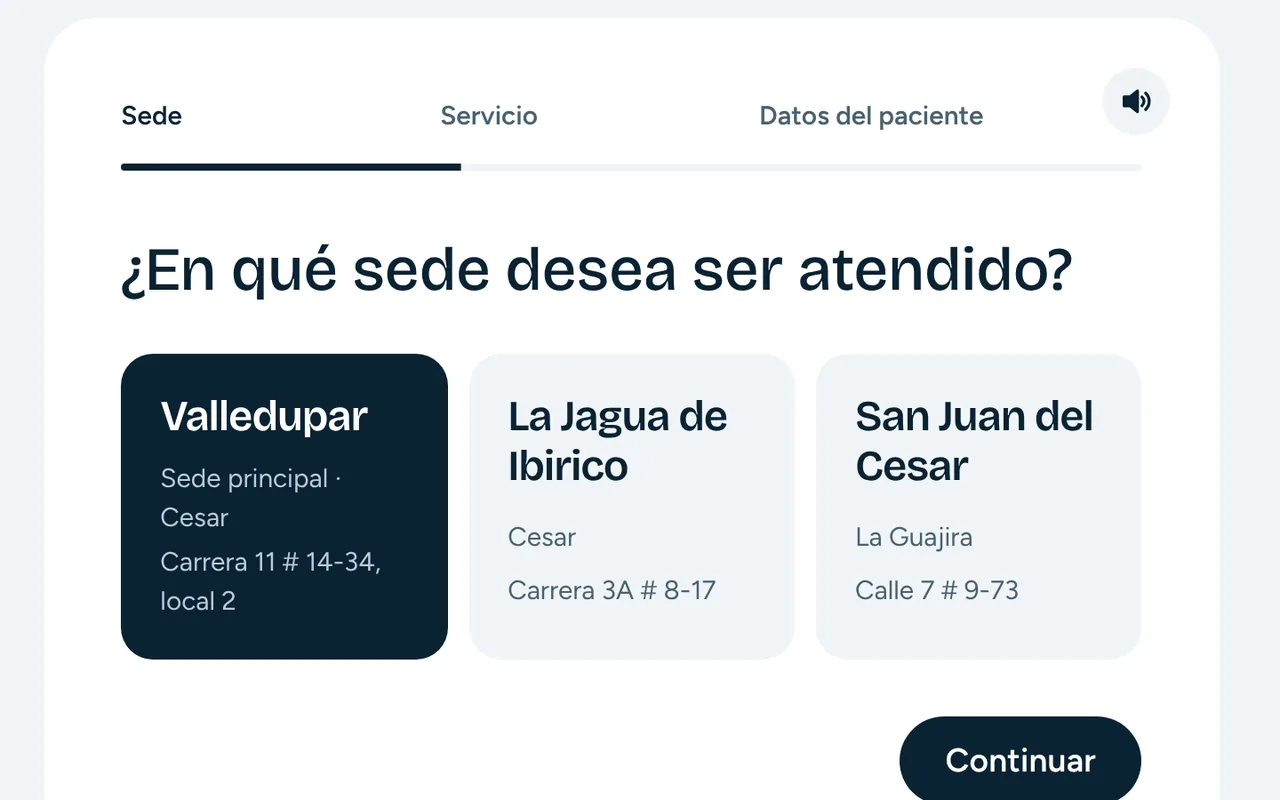
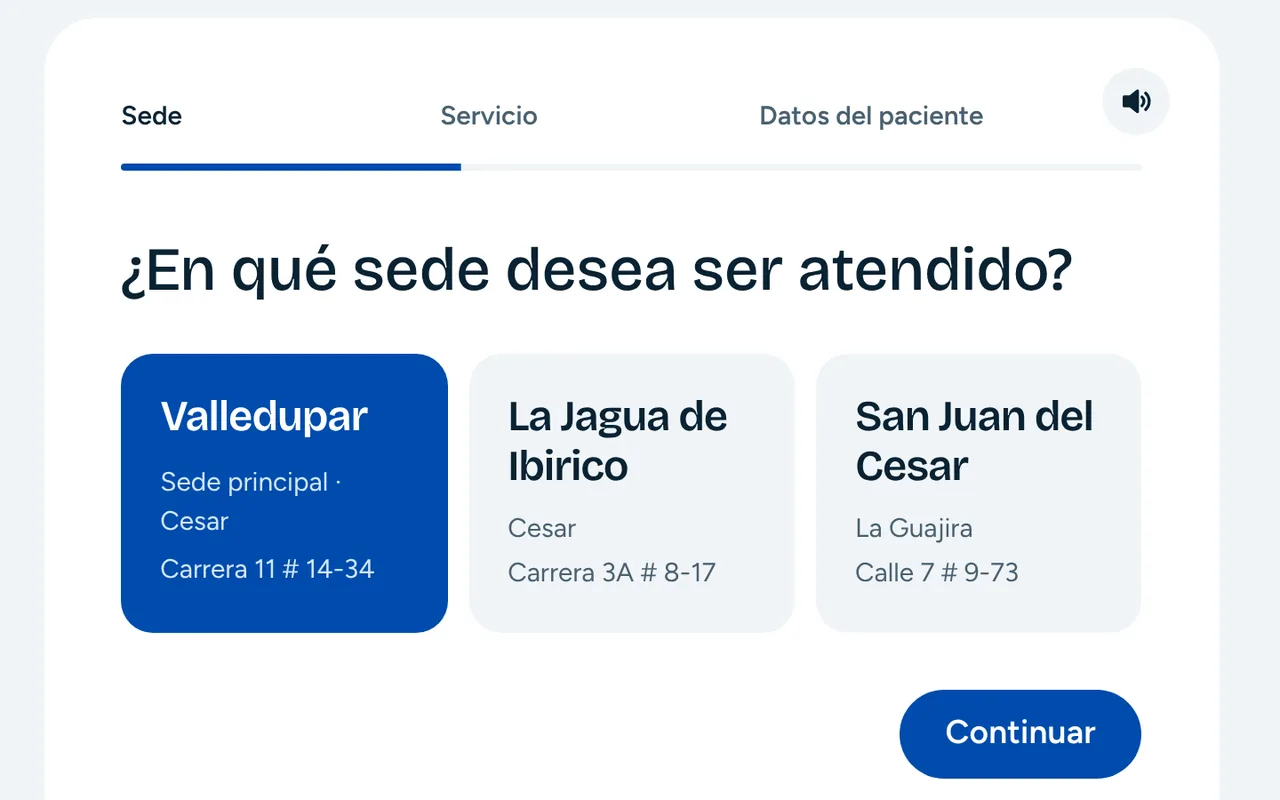
Dirección de Valledupar sin «local 2»: Carrera 11 # 14-34 (portada, formulario, noticia, pie, política y términos)
También se rehacen las capturas de las noticias con la dirección y los colores nuevos. Caché a 20261120a.

Claude-Session: https://claude.ai/code/session_01KgBCaLP9RysCNRVRUvwMra

diff --git a/index.html b/index.html
@@ -24,7 +24,7 @@
   <link rel="preconnect" href="https://fonts.googleapis.com">
   <link rel="preconnect" href="https://fonts.gstatic.com" crossorigin>
   <link href="https://fonts.googleapis.com/css2?family=Bricolage+Grotesque:opsz,wght@12..96,500..700&family=Figtree:wght@400;500;600;700&display=swap" rel="stylesheet">
-  <link rel="stylesheet" href="styles.css?v=20261118d">
+  <link rel="stylesheet" href="styles.css?v=20261120a">
   <script>document.documentElement.classList.add('js')</script>
 </head>
 <body>
@@ -125,7 +125,7 @@
           <div class="choice-grid">
             <label class="choice">
               <input type="radio" name="sede" value="Valledupar" required>
-              <span class="choice__body"><strong>Valledupar</strong><span>Sede principal · Cesar</span><span>Carrera 11 # 14-34, local 2</span></span>
+              <span class="choice__body"><strong>Valledupar</strong><span>Sede principal · Cesar</span><span>Carrera 11 # 14-34</span></span>
             </label>
             <label class="choice">
               <input type="radio" name="sede" value="La Jagua de Ibirico">
@@ -312,7 +312,7 @@
           <p>Para que la muestra salga bien, en los días previos se recomienda no tener relaciones sexuales, no usar óvulos ni cremas vaginales y no hacerse duchas vaginales. Lo ideal es no estar en el período menstrual.</p>
           <h4>¿Dónde?</h4>
           <ul>
-            <li><strong>Valledupar:</strong> Carrera 11 # 14-34, local 2.</li>
+            <li><strong>Valledupar:</strong> Carrera 11 # 14-34.</li>
             <li><strong>San Juan del Cesar:</strong> Calle 7 # 9-73, para afiliadas a Sanitas de <strong>San Juan del Cesar, El Molino, Urumita y Villanueva</strong>.</li>
           </ul>
           <h4>Agende su cita</h4>
@@ -448,7 +448,7 @@
           <li>
             <button type="button" class="site" data-site="0" aria-pressed="true">
               <span class="site__photo slot" data-label="Sede Valledupar" data-file="fotos/sede-valledupar.jpg"><img src="fotos/sede-valledupar.jpg" alt="" width="400" height="300" loading="lazy" onerror="this.parentNode.classList.add('is-empty')"></span>
-              <span class="site__text"><strong>Valledupar</strong><span>Sede principal · Cesar</span><span>Carrera 11 # 14-34, local 2</span><span>Lun. a vie. 6:30&nbsp;a.&nbsp;m. a 12:30&nbsp;p.&nbsp;m. y 1:30&nbsp;p.&nbsp;m. a 6:30&nbsp;p.&nbsp;m.</span></span>
+              <span class="site__text"><strong>Valledupar</strong><span>Sede principal · Cesar</span><span>Carrera 11 # 14-34</span><span>Lun. a vie. 6:30&nbsp;a.&nbsp;m. a 12:30&nbsp;p.&nbsp;m. y 1:30&nbsp;p.&nbsp;m. a 6:30&nbsp;p.&nbsp;m.</span></span>
             </button>
           </li>
           <li>
@@ -595,7 +595,7 @@
       </div>
       <div>
         <h3>Sedes</h3>
-        <p>Valledupar: Carrera 11 # 14-34, local 2<br>La Jagua de Ibirico: Carrera 3A # 8-17<br>San Juan del Cesar: Calle 7 # 9-73</p>
+        <p>Valledupar: Carrera 11 # 14-34<br>La Jagua de Ibirico: Carrera 3A # 8-17<br>San Juan del Cesar: Calle 7 # 9-73</p>
       </div>
       <div>
         <h3>Síganos</h3>
@@ -633,7 +633,7 @@
     <p>Esta página no usa cookies propias. El mapa y las fuentes de Google pueden usar las suyas.</p>
     <div class="cookie-note__actions"><a class="cookie-note__link" href="politica-de-datos.html#cookies">Ver política</a><button type="button" class="cookie-note__ok" id="cookie-ok">Entendido</button></div>
   </div>
-  <script src="helenita/helenita-player.js?v=20261118d" defer></script>
-  <script src="script.js?v=20261118d" defer></script>
+  <script src="helenita/helenita-player.js?v=20261120a" defer></script>
+  <script src="script.js?v=20261120a" defer></script>
 </body>
 </html>

diff --git a/terminos.html b/terminos.html
@@ -23,7 +23,7 @@
   <link rel="preconnect" href="https://fonts.googleapis.com">
   <link rel="preconnect" href="https://fonts.gstatic.com" crossorigin>
   <link href="https://fonts.googleapis.com/css2?family=Bricolage+Grotesque:opsz,wght@12..96,500..700&family=Figtree:wght@400;500;600;700&display=swap" rel="stylesheet">
-  <link rel="stylesheet" href="legal.css?v=20261118d">
+  <link rel="stylesheet" href="legal.css?v=20261120a">
   <script>if ('scrollRestoration' in history) history.scrollRestoration = 'manual'; addEventListener('load', () => { if (!location.hash) scrollTo(0, 0); });</script>
 </head>
 <body>
@@ -93,7 +93,7 @@ Superintendencia Nacional de Salud.</p>
 <li>Correo: <a href="mailto:siau@santahelenadelvalleips.com">siau@santahelenadelvalleips.com</a></li>
 <li>Línea de atención: (605) 588 5690, ext. 201 a 301 · Móviles: 314 535 6846 · 318 768 9174</li>
 <li>WhatsApp: 311 339 8988</li>
-<li>Sede principal: Carrera 11 # 14-34, local 2, Valledupar, Cesar</li>
+<li>Sede principal: Carrera 11 # 14-34, Valledupar, Cesar</li>
 </ul>
   </main>
   <footer class="lg-foot">

diff --git a/politica-de-datos.html b/politica-de-datos.html
@@ -23,7 +23,7 @@
   <link rel="preconnect" href="https://fonts.googleapis.com">
   <link rel="preconnect" href="https://fonts.gstatic.com" crossorigin>
   <link href="https://fonts.googleapis.com/css2?family=Bricolage+Grotesque:opsz,wght@12..96,500..700&family=Figtree:wght@400;500;600;700&display=swap" rel="stylesheet">
-  <link rel="stylesheet" href="legal.css?v=20261118d">
+  <link rel="stylesheet" href="legal.css?v=20261120a">
   <script>if ('scrollRestoration' in history) history.scrollRestoration = 'manual'; addEventListener('load', () => { if (!location.hash) scrollTo(0, 0); });</script>
 </head>
 <body>
@@ -54,7 +54,7 @@
 </tr>
 <tr>
 <td>Domicilio y dirección principal</td>
-<td>Carrera 11 # 14-34, local 2, Valledupar, Cesar</td>
+<td>Carrera 11 # 14-34, Valledupar, Cesar</td>
 </tr>
 <tr>
 <td>Otras sedes</td>

diff --git a/404.html b/404.html
@@ -11,7 +11,7 @@
   <link rel="preconnect" href="https://fonts.googleapis.com">
   <link rel="preconnect" href="https://fonts.gstatic.com" crossorigin>
   <link href="https://fonts.googleapis.com/css2?family=Bricolage+Grotesque:opsz,wght@12..96,500..700&family=Figtree:wght@400;500;600;700&display=swap" rel="stylesheet">
-  <link rel="stylesheet" href="/legal.css?v=20261118d">
+  <link rel="stylesheet" href="/legal.css?v=20261120a">
 </head>
 <body>
   <header class="lg-head">

diff --git a/CONTEXTO-SANTA-HELENA.md b/CONTEXTO-SANTA-HELENA.md
@@ -40,7 +40,7 @@ continúe el trabajo. Corte: 30 de octubre de 2026 (versión del sitio en la ram
 
 | Sede | Departamento | Dirección | Coordenadas usadas en el mapa | Notas |
 |---|---|---|---|---|
-| **Valledupar** | Cesar | Carrera 11 # 14-34, local 2 | 10.4756282, -73.2495789 | Sede principal. En la fachada se lee «CAPS · Centro de Atención Primaria en Salud», «L-2» y «14-34». |
+| **Valledupar** | Cesar | Carrera 11 # 14-34 | 10.4756282, -73.2495789 | Sede principal. En la fachada se lee «CAPS · Centro de Atención Primaria en Salud», «L-2» y «14-34». |
 | **La Jagua de Ibirico** | Cesar | Carrera 3A # 8-17 | 9.561919694521654, -73.33216731853685 | La fachada tiene rampa de acceso para sillas de ruedas. |
 | **San Juan del Cesar** | La Guajira | Calle 7 # 9-73 | 10.7741577, -73.0027359 | En la fachada hay una placa de «Laboratorio clínico». La foto no muestra el nombre de la ciudad: la asignación a esta sede fue nuestra y está **pendiente de confirmar**. |
 
@@ -449,7 +449,7 @@ Psicología · Fisioterapia · Fonoaudiología · Vacunación.
   Nuestro equipo le confirmará la fecha y la hora de atención.»
 - Pasos: «Sede» · «Servicio» · «Datos del paciente».
 - Paso 1: «¿En qué sede desea ser atendido?», con tres tarjetas:
-  - «Valledupar · Sede principal · Cesar · Carrera 11 # 14-34, local 2»
+  - «Valledupar · Sede principal · Cesar · Carrera 11 # 14-34»
   - «La Jagua de Ibirico · Cesar · Carrera 3A # 8-17»
   - «San Juan del Cesar · La Guajira · Calle 7 # 9-73»
 
@@ -590,7 +590,7 @@ Salud.»
 - Logo con lema · «Volver al inicio» · lema «¡La salud, nuestro compromiso!»
 - «Atención al usuario»: WhatsApp 311 339 8988 · Línea de atención (605) 588 5690, ext. 201 a 301 · Móviles 314 535
   6846 · 318 768 9174.
-- «Sedes»: Valledupar: Carrera 11 # 14-34, local 2 · La Jagua de Ibirico: Carrera 3A # 8-17 · San Juan del Cesar:
+- «Sedes»: Valledupar: Carrera 11 # 14-34 · La Jagua de Ibirico: Carrera 3A # 8-17 · San Juan del Cesar:
   Calle 7 # 9-73.
 - «Correo»: gerencia@santahelenadelvalleips.com · calidadrh@santahelenadelvalleips.com
 - Legal: «Santa Helena del Valle IPS SAS · NIT 900.085.612-7 · Vigilado Superintendencia Nacional de Salud · © 2026»
